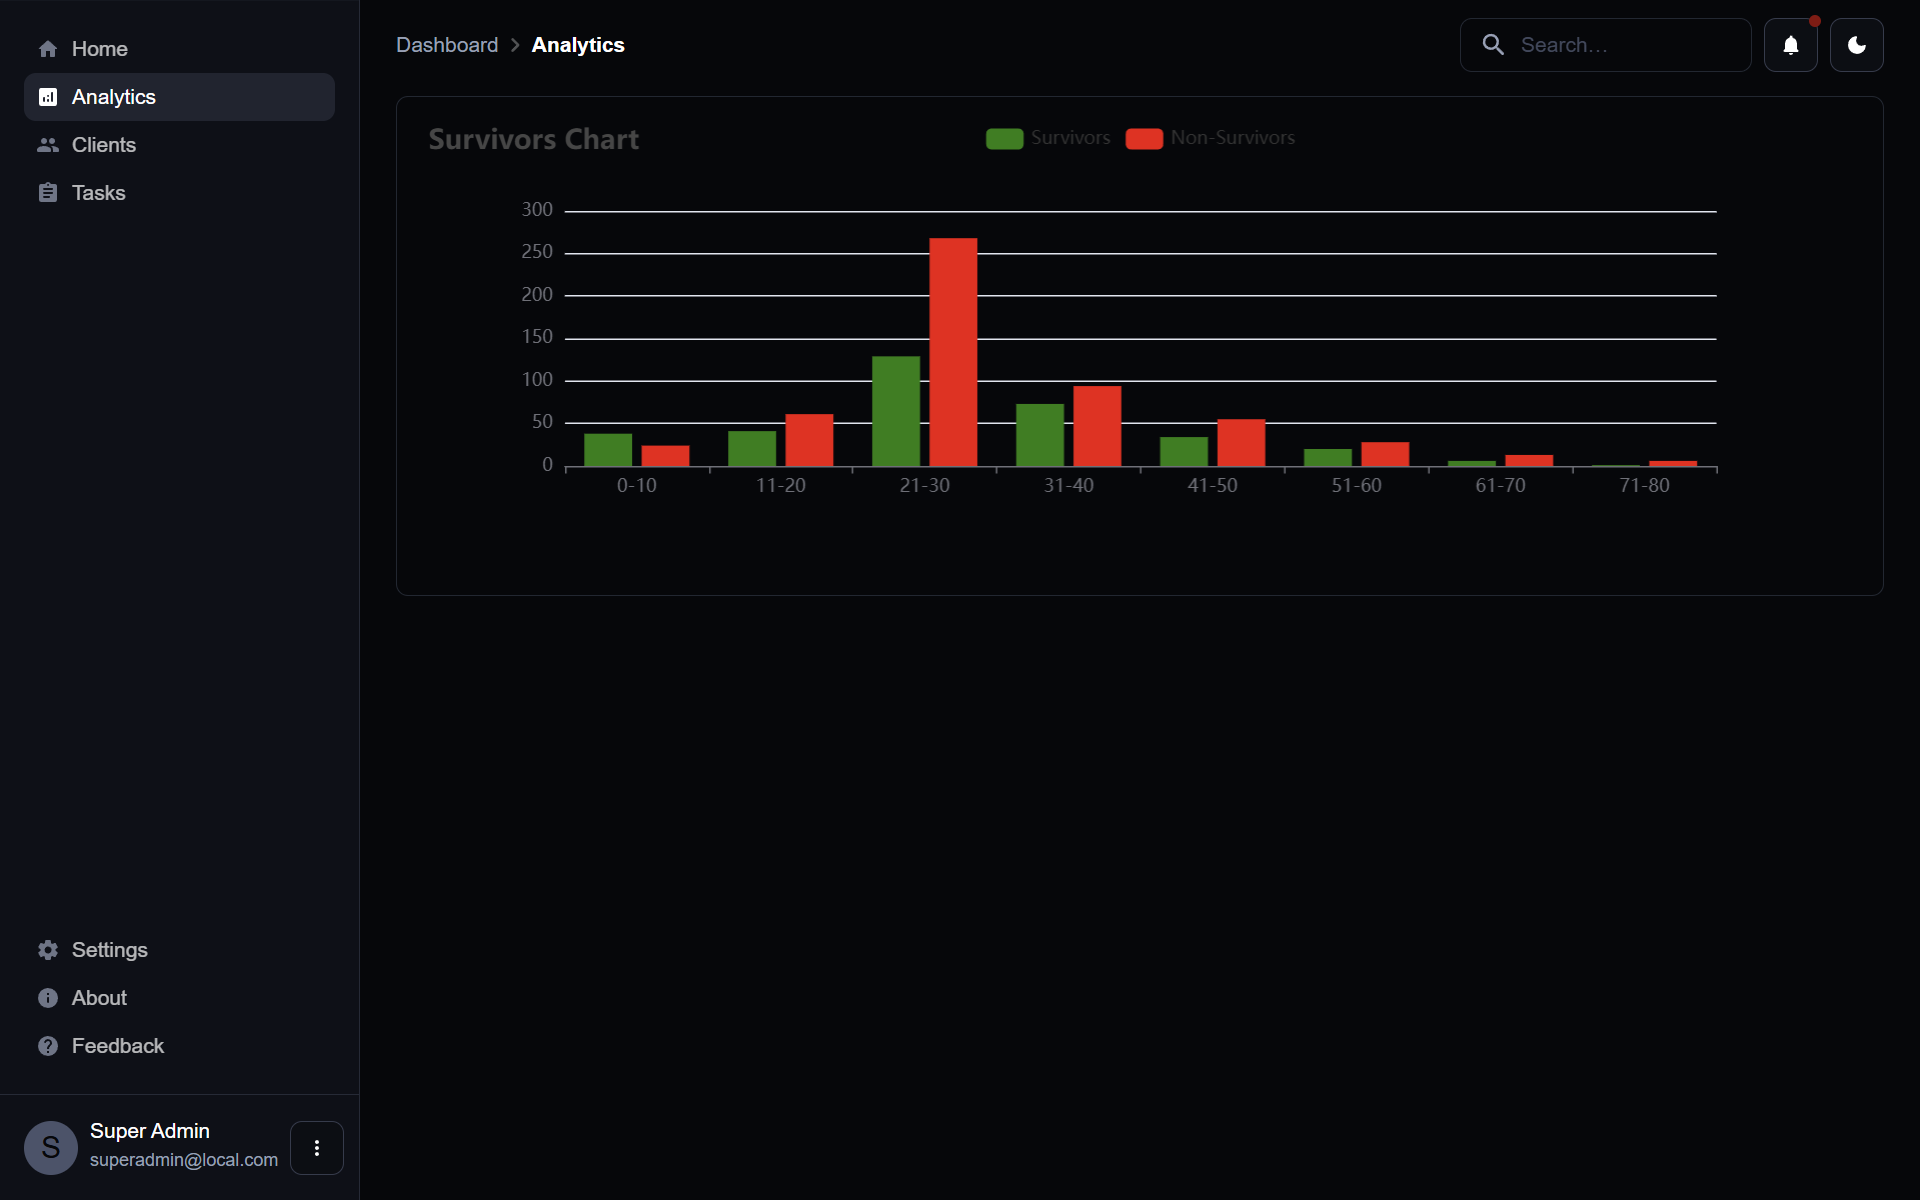
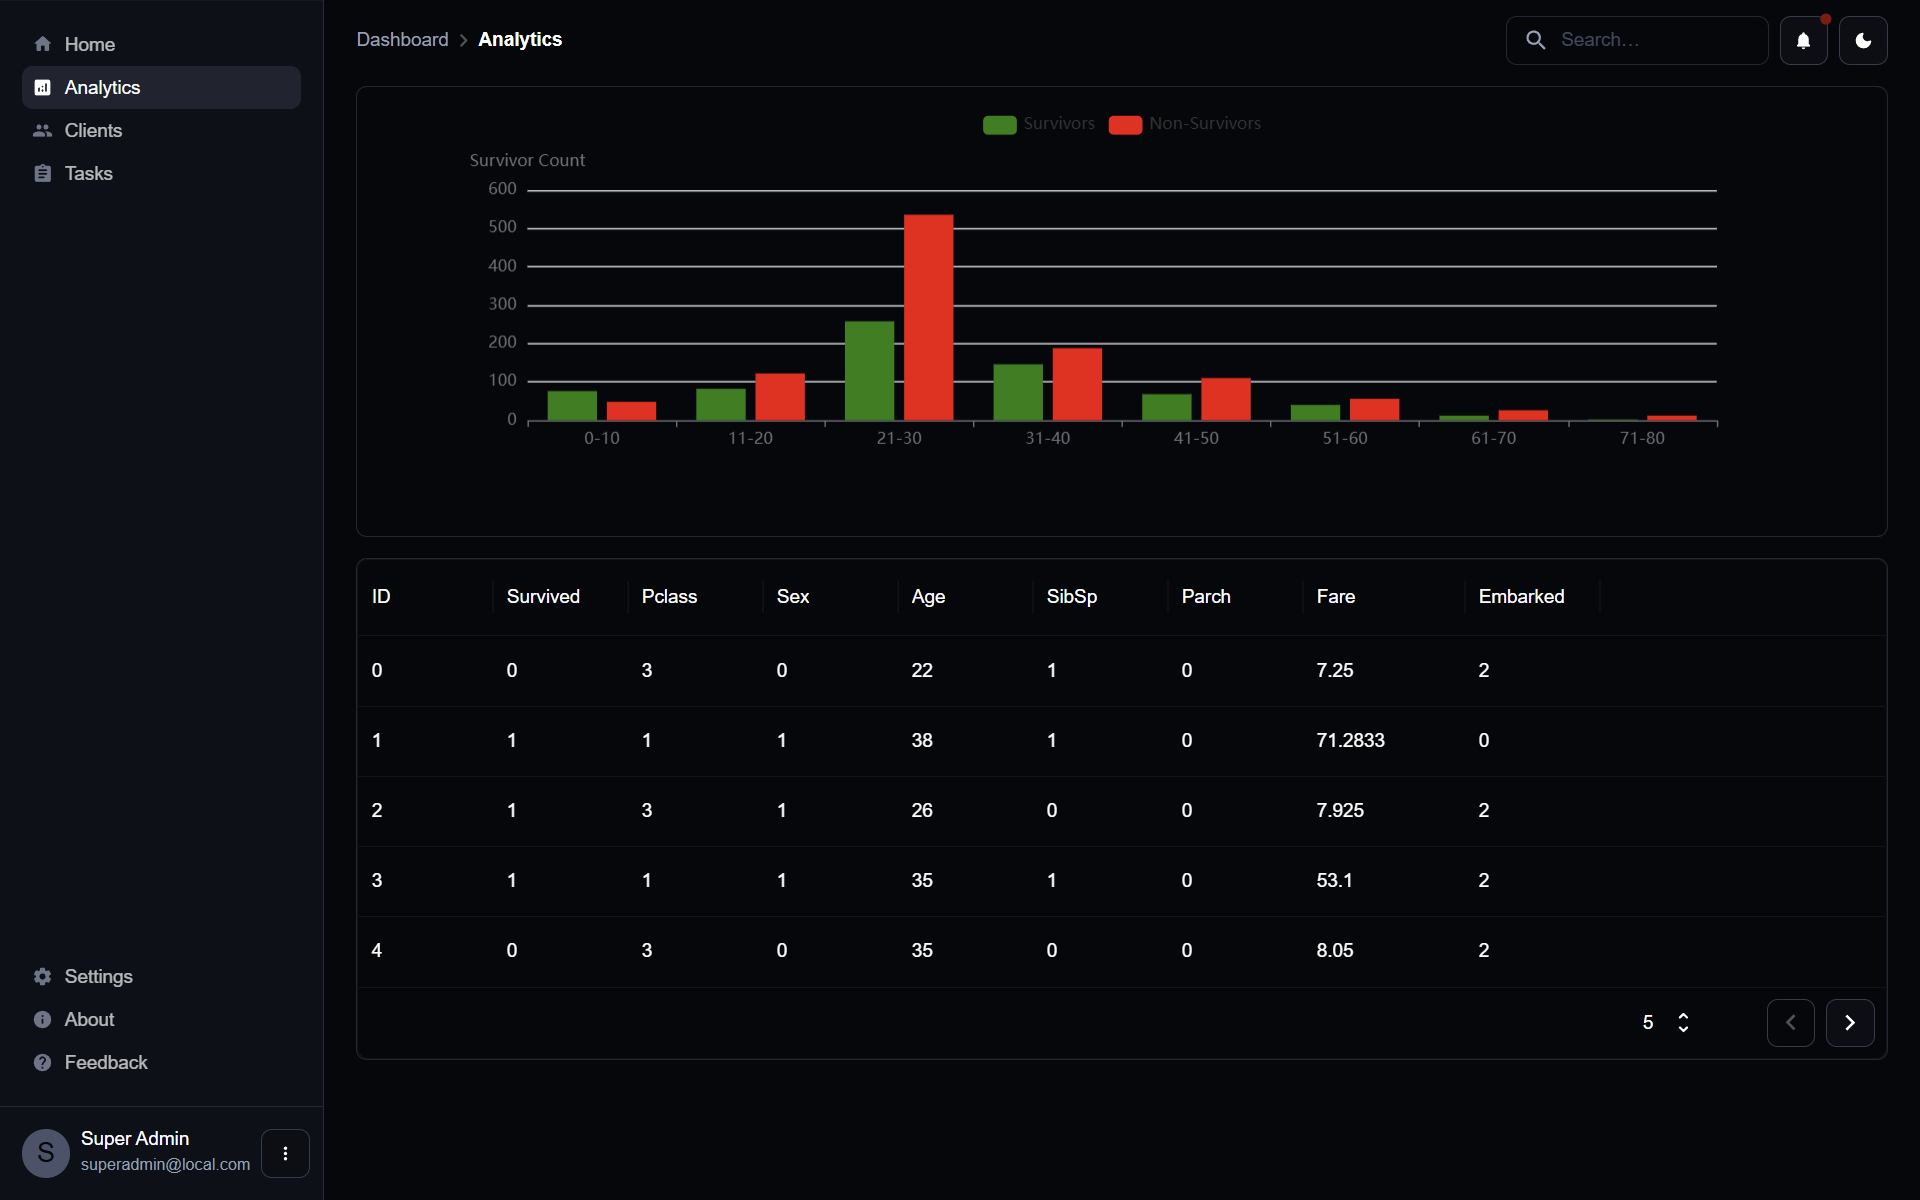
Add survivors table

diff --git a/client/src/analytics/components/SurvivorsTable.js b/client/src/analytics/components/SurvivorsTable.js
@@ -1,0 +1,53 @@
+import { useEffect, useState } from "react";
+import { DataGrid } from "@mui/x-data-grid";
+import axios from "axios";
+
+const columns = [
+  { field: "id", headerName: "ID", width: 100 },
+  { field: "Survived", headerName: "Survived", width: 100 },
+  { field: "Pclass", headerName: "Pclass", width: 100 },
+  { field: "Sex", headerName: "Sex", width: 100 },
+  { field: "Age", headerName: "Age", width: 100 },
+  { field: "SibSp", headerName: "SibSp", width: 100 },
+  { field: "Parch", headerName: "Parch", width: 100 },
+  { field: "Fare", headerName: "Fare", width: 120 },
+  { field: "Embarked", headerName: "Embarked", width: 100 },
+];
+
+const SurvivorsTable = () => {
+  const [data, setData] = useState([]);
+
+  useEffect(() => {
+    axios
+      .get("http://localhost:5000/api/titanic/survival-table")
+      .then((response) => setData(response.data))
+      .catch((error) => console.error("Error fetching data:", error));
+  }, []);
+
+  return (
+    <DataGrid
+      rows={data.map((row, index) => ({ id: index, ...row }))}
+      columns={columns}
+      pageSizeOptions={[5, 10, 20]}
+      rowsPerPageOptions={[5, 10, 20]}
+      disableSelectionOnClick
+      autoHeight
+      getRowClassName={(params) =>
+        params.indexRelativeToCurrentPage % 2 === 0 ? "even" : "odd"
+      }
+      initialState={{
+        pagination: { paginationModel: { pageSize: 5 } },
+      }}
+      sx={{
+        "& .MuiTablePagination-displayedRows": {
+          display: "none",
+        },
+        "& .MuiTablePagination-selectLabel": {
+          display: "none",
+        },
+      }}
+    />
+  );
+};
+
+export default SurvivorsTable;

diff --git a/client/src/analytics/Analytics.js b/client/src/analytics/Analytics.js
@@ -11,6 +11,7 @@ import AppTheme from "../shared-theme/AppTheme";
 
 import useTitanicData from "./hooks/useTitanicData";
 import SurvivorsChart from "./components/SurvivorsChart";
+import SurvivorsTable from "./components/SurvivorsTable";
 
 export default function App(props) {
   const { data, ageGroups } = useTitanicData();
@@ -31,6 +32,11 @@ export default function App(props) {
                   ageGroups={ageGroups}
                   sx={{ height: "100%", width: "100%" }}
                 />
+              </CardContent>
+            </Card>
+            <Card variant="outlined" sx={{ width: "100%", padding: 0 }}>
+              <CardContent>
+                <SurvivorsTable />
               </CardContent>
             </Card>
           </Stack>

diff --git a/client/src/theme.js b/client/src/theme.js
@@ -1,12 +1,21 @@
 import { createTheme } from "@mui/material/styles";
 
 const theme = createTheme({
-  palette: {
-    primary: {
-      main: "#1976d2",
+  palette: {},
+  components: {
+    MuiDataGrid: {
+      styleOverrides: {
+        root: {
+          "--DataGrid-containerBackground": "rgb(69,153,236)",
+        },
+      },
     },
-    secondary: {
-      main: "#6c757d",
+    MuiAlert: {
+      styleOverrides: {
+        root: {
+          backgroundColor: "inherit", // Allow default colors
+        },
+      },
     },
   },
 });

diff --git a/client/src/analytics/components/SurvivorsChart.js b/client/src/analytics/components/SurvivorsChart.js
@@ -8,11 +8,14 @@ const SurvivorsChart = ({ data, ageGroups }) => {
   // console.log("nonSurvivorsData:", nonSurvivorsData);
 
   const options = {
-    title: { text: "Survivors Chart" },
+    // title: { text: "Survivors Chart" },
     tooltip: { trigger: "axis" },
     legend: { data: ["Survivors", "Non-Survivors"] },
     xAxis: { type: "category", data: ageGroups },
-    yAxis: { type: "value" },
+    yAxis: {
+      type: "value",
+      name: "Survivor Count",
+    },
     series: [
       {
         name: "Survivors",

diff --git a/client/src/dashboard/components/MenuContent.js b/client/src/dashboard/components/MenuContent.js
@@ -1,5 +1,5 @@
 import * as React from "react";
-import { useState } from "react";
+// import { useState } from "react";
 
 import List from "@mui/material/List";
 import ListItem from "@mui/material/ListItem";
@@ -33,7 +33,7 @@ const secondaryListItems = [
 export default function MenuContent() {
   const location = useLocation();
   const selectedIndex = mainListItems.findIndex(
-    (item) => location.pathname === item.link,
+    (item) => location.pathname === item.link
   );
 
   return (

diff --git a/client/src/analytics/hooks/useTitanicData.js b/client/src/analytics/hooks/useTitanicData.js
@@ -16,7 +16,7 @@ const useTitanicData = () => {
 
   useEffect(() => {
     axios
-      .get("http://localhost:5000/api/titanic/survival")
+      .get("http://localhost:5000/api/titanic/survival-chart")
       .then((response) => {
         setData(response.data);
         // console.log("Fetched Data:", response.data);

diff --git a/server/app.py b/server/app.py
@@ -18,7 +18,9 @@ DB_USER = os.getenv('DB_USER')
 DB_PASSWORD = os.getenv('DB_PASSWORD')
 DB_NAME = os.getenv('DB_NAME')
 
-db = mysql.connector.connect(
+db_pool = mysql.connector.pooling.MySQLConnectionPool(
+    pool_name="titanic_pool",
+    pool_size=5,
     host=DB_HOST,
     user=DB_USER,
     password=DB_PASSWORD,
@@ -51,15 +53,29 @@ def process_age_groups(data):
     
     return result
 
-@app.route('/api/titanic/survival', methods=['GET'])
-def get_titanic_data():
-    cursor = db.cursor(dictionary=True)
-    cursor.execute("SELECT * FROM titanic")
-    data = cursor.fetchall()
-    
-    # Process the data into age groups 
-    processed_data = process_age_groups(data)
-    return jsonify(processed_data)
+@app.route('/api/titanic/survival-chart', methods=['GET'])
+def get_chart_data():
+    conn = db_pool.get_connection()
+    cursor = conn.cursor(dictionary=True)
+    try:
+        cursor.execute("SELECT * FROM titanic")
+        data = cursor.fetchall()
+        processed_data = process_age_groups(data)
+        return jsonify(processed_data)
+    finally:
+        cursor.close()
+        conn.close()  # Return connection to pool
+
+@app.route('/api/titanic/survival-table', methods=['GET'])
+def get_table_data():
+    conn = db_pool.get_connection()
+    cursor = conn.cursor(dictionary=True)
+    try:
+        cursor.execute("SELECT * FROM titanic")
+        return jsonify(cursor.fetchall())
+    finally:
+        cursor.close()
+        conn.close()
 
 # Run the app
 if __name__ == '__main__':
